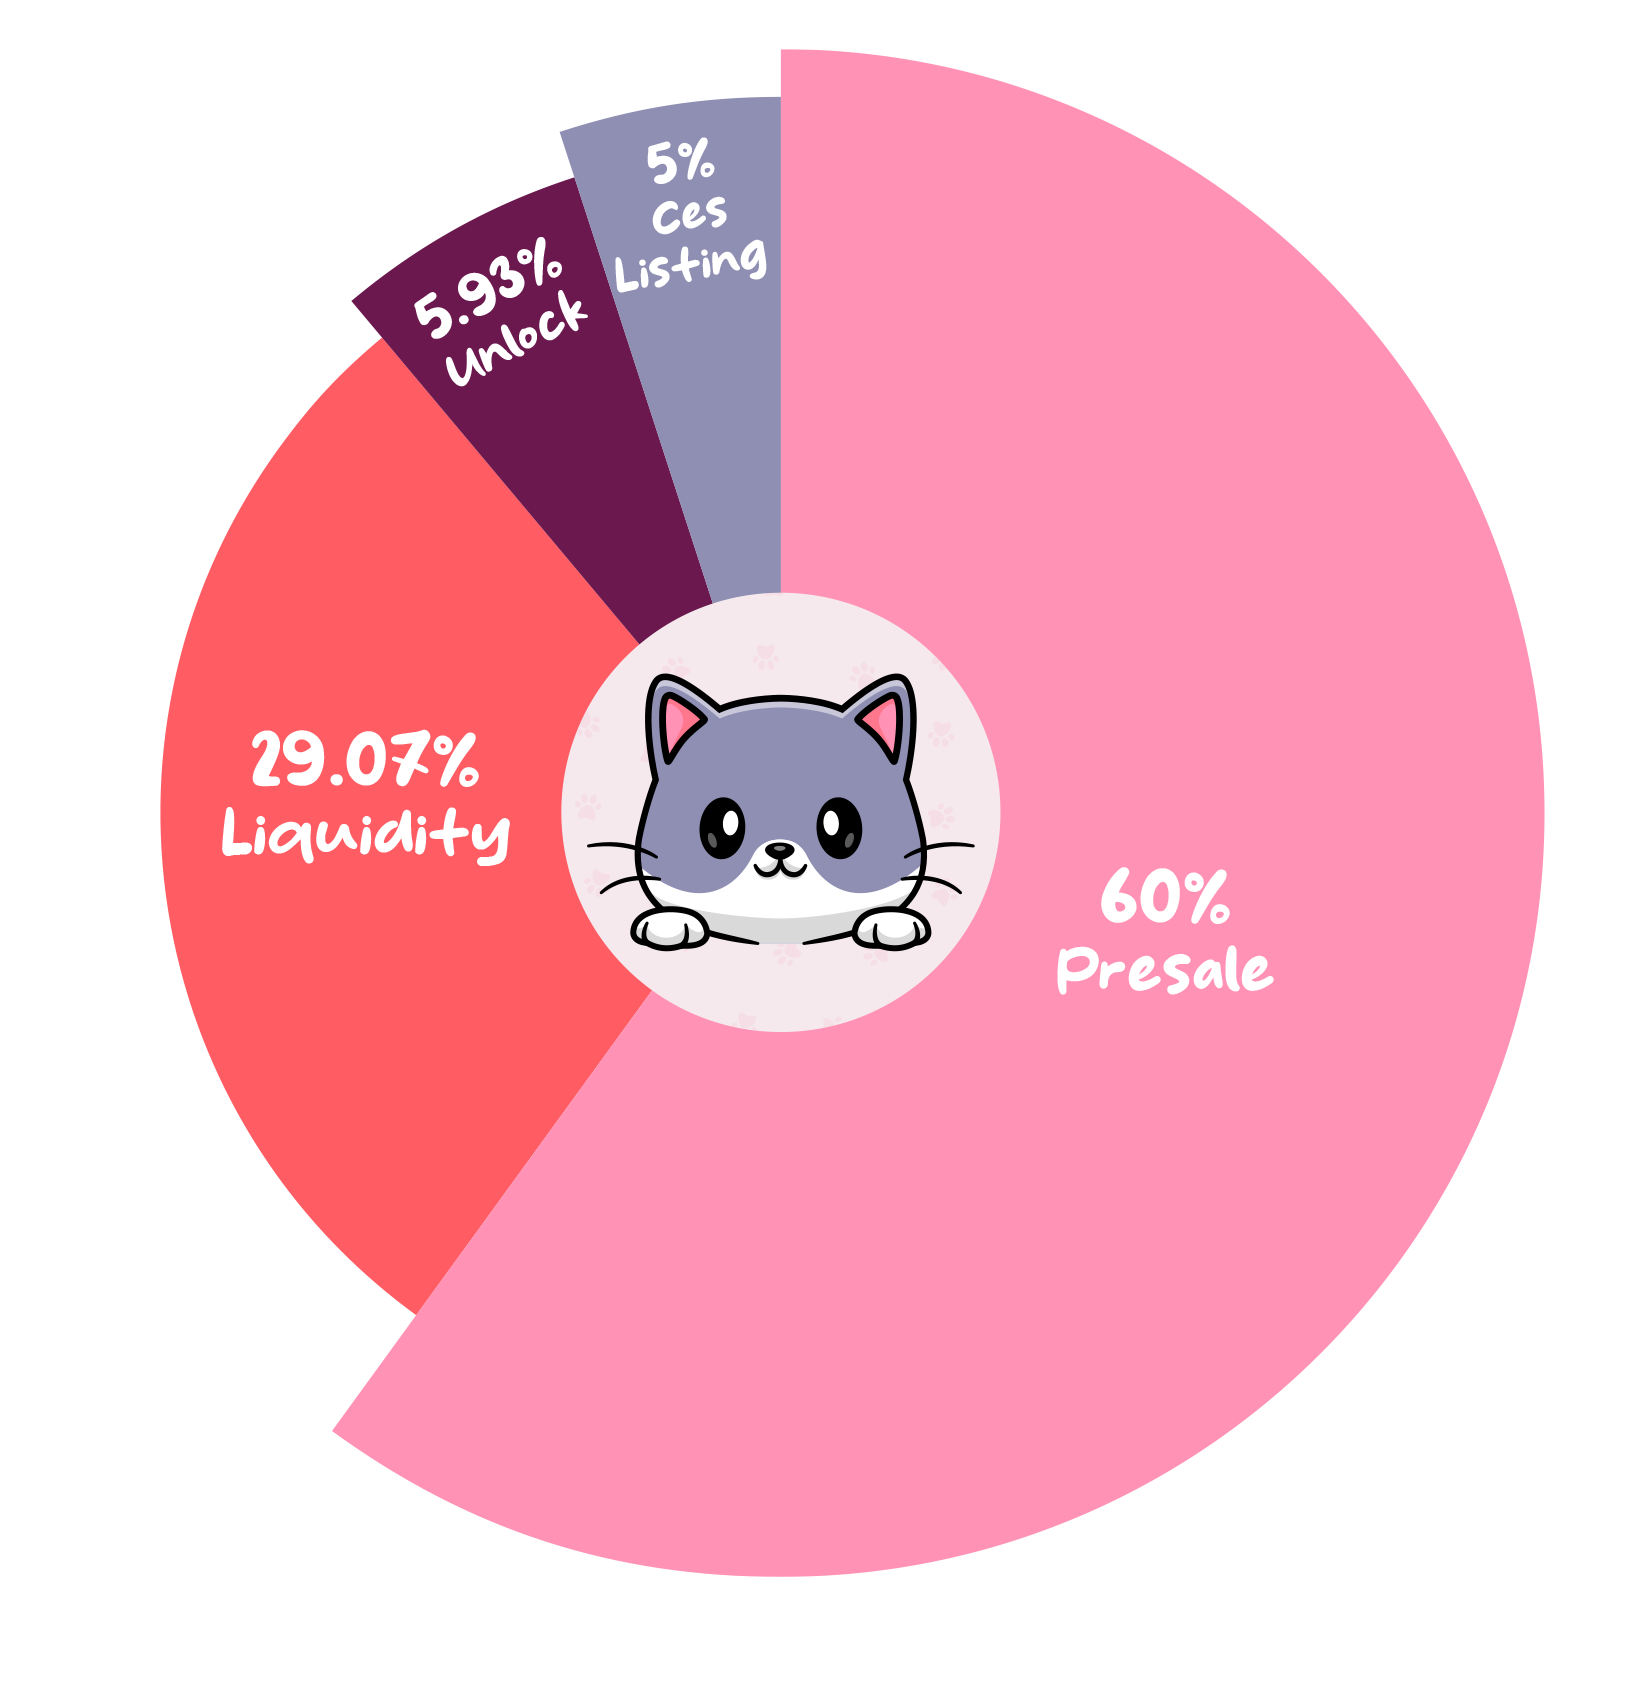
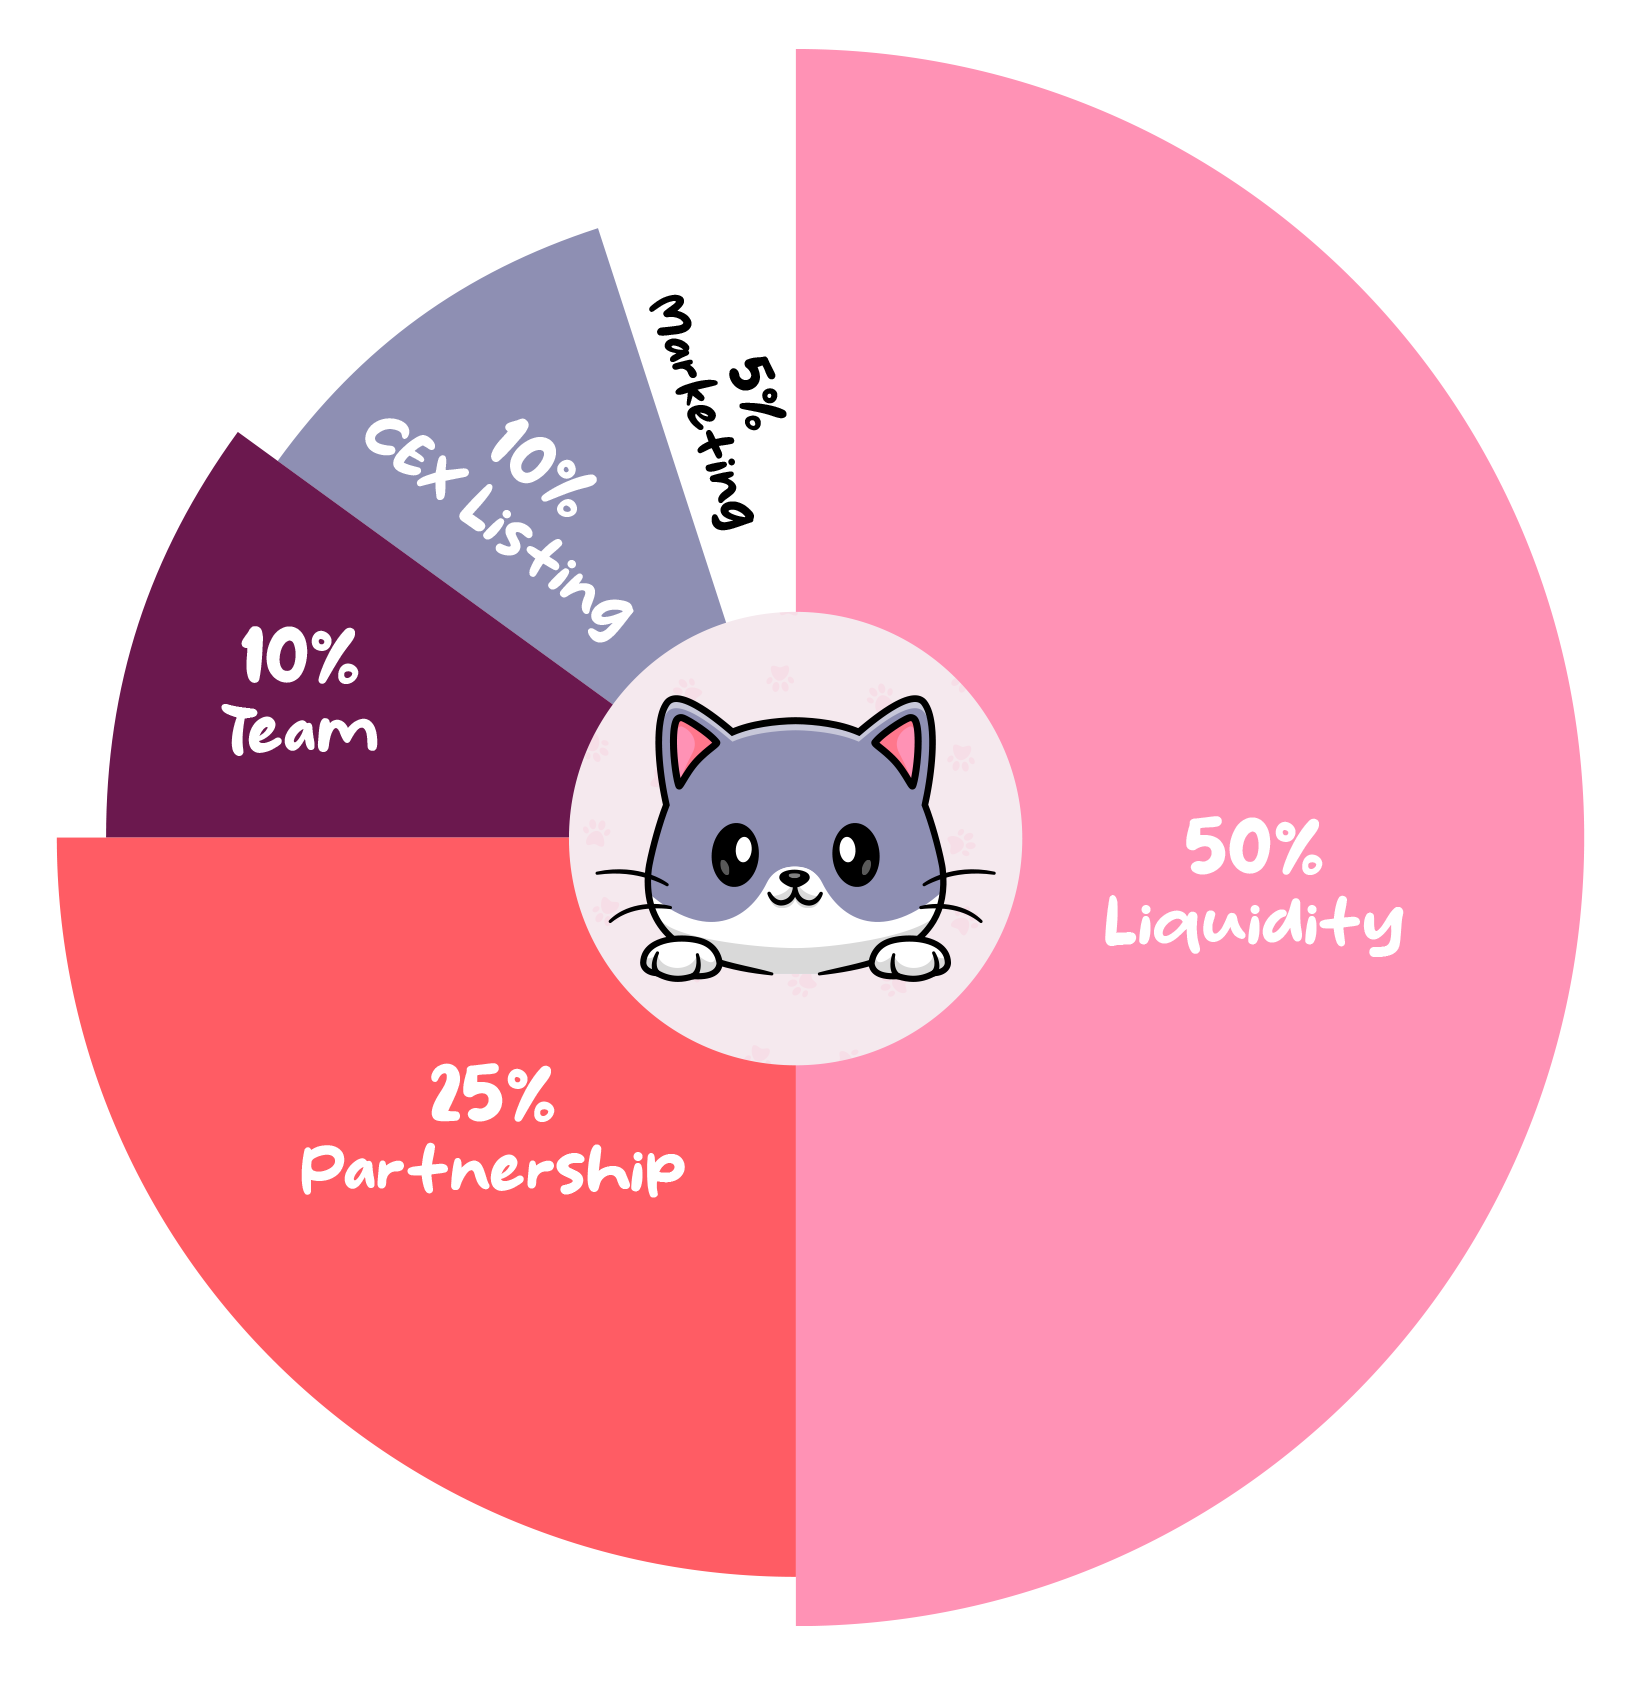
Done

diff --git a/index.html b/index.html
@@ -181,7 +181,6 @@
                 <li class="item">Brainstorming</li>
                 <li class="item">Create Website</li>
                 <li class="item">Build Community</li>
-                <li class="item">Pre-launch Marketing</li>
               </ul>
               <div class="line">
                 <img src="./assets/images/9.svg" alt="line" />
@@ -198,9 +197,8 @@
                 </span>
               </div>
               <ul class="list">
-                <li class="item">Token Presale</li>
-                <li class="item">Dex Listing</li>
-                <li class="item">More Marketing</li>
+                <li class="item">Token Listing</li>
+                <li class="item">Marketing Campaign</li>
                 <li class="item">CoinGecko and Coin Marketcap</li>
               </ul>
               <div class="line">
@@ -218,7 +216,6 @@
                 </span>
               </div>
               <ul class="list">
-                <li class="item">CEX Listing</li>
                 <li class="item">Partnership</li>
                 <li class="item">Meow Meow Metaverse</li>
                 <li class="item">NFT Marketplace</li>
@@ -271,10 +268,11 @@
                   Total Supply&nbsp; - &nbsp;<span>1,000,000,000</span>
                 </h3>
                 <ul class="list">
-                  <li class="item">5% CEX Listing</li>
-                  <li class="item">29.07% Liquidity</li>
-                  <li class="item">5.93% Unlock</li>
-                  <li class="item">60% Presale</li>
+                  <li class="item">50% Liquidity</li>
+                  <li class="item">10% Team</li>
+                  <li class="item">10% CEX Listing</li>
+                  <li class="item">5% Marketing</li>
+                  <li class="item">25% Partnership</li>
                 </ul>
               </div>
             </div>

diff --git a/assets/css/index.css b/assets/css/index.css
@@ -543,16 +543,19 @@ img {
   margin-bottom: 13px;
 }
 #tokenomics .tokenomics-content .list .item:nth-child(1) {
-  color: #8e8fb3;
+  color: #ff92b5;
 }
 #tokenomics .tokenomics-content .list .item:nth-child(2) {
-  color: #ff5c64;
-}
-#tokenomics .tokenomics-content .list .item:nth-child(3) {
   color: #6b184e;
 }
+#tokenomics .tokenomics-content .list .item:nth-child(3) {
+  color: #8e8fb3;
+}
 #tokenomics .tokenomics-content .list .item:nth-child(4) {
-  color: #ff92b5;
+  color: #313131;
+}
+#tokenomics .tokenomics-content .list .item:nth-child(5) {
+  color: #ff5c64;
 }
 
 #footer {

diff --git a/assets/scss/_main.scss b/assets/scss/_main.scss
@@ -468,17 +468,20 @@ img {
         line-height: 30px;
         margin-bottom: 13px;
         &:nth-child(1) {
-          color: #8e8fb3;
+          color: #ff92b5;
         }
         &:nth-child(2) {
-          color: #ff5c64;
+          color: #6b184e;
         }
 
         &:nth-child(3) {
-          color: #6b184e;
+          color: #8e8fb3;
         }
         &:nth-child(4) {
-          color: $pink;
+          color: #313131;
+        }
+        &:nth-child(5) {
+          color: #ff5c64;
         }
       }
     }
